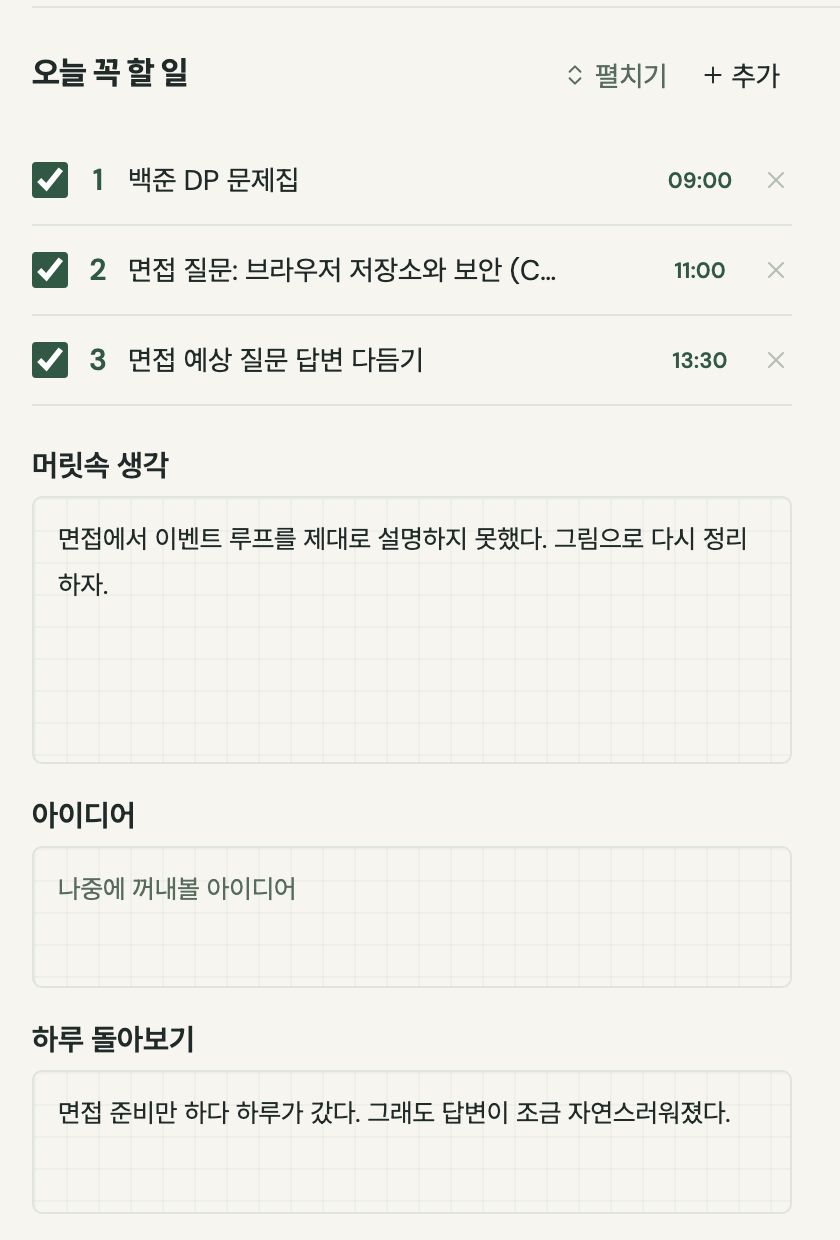
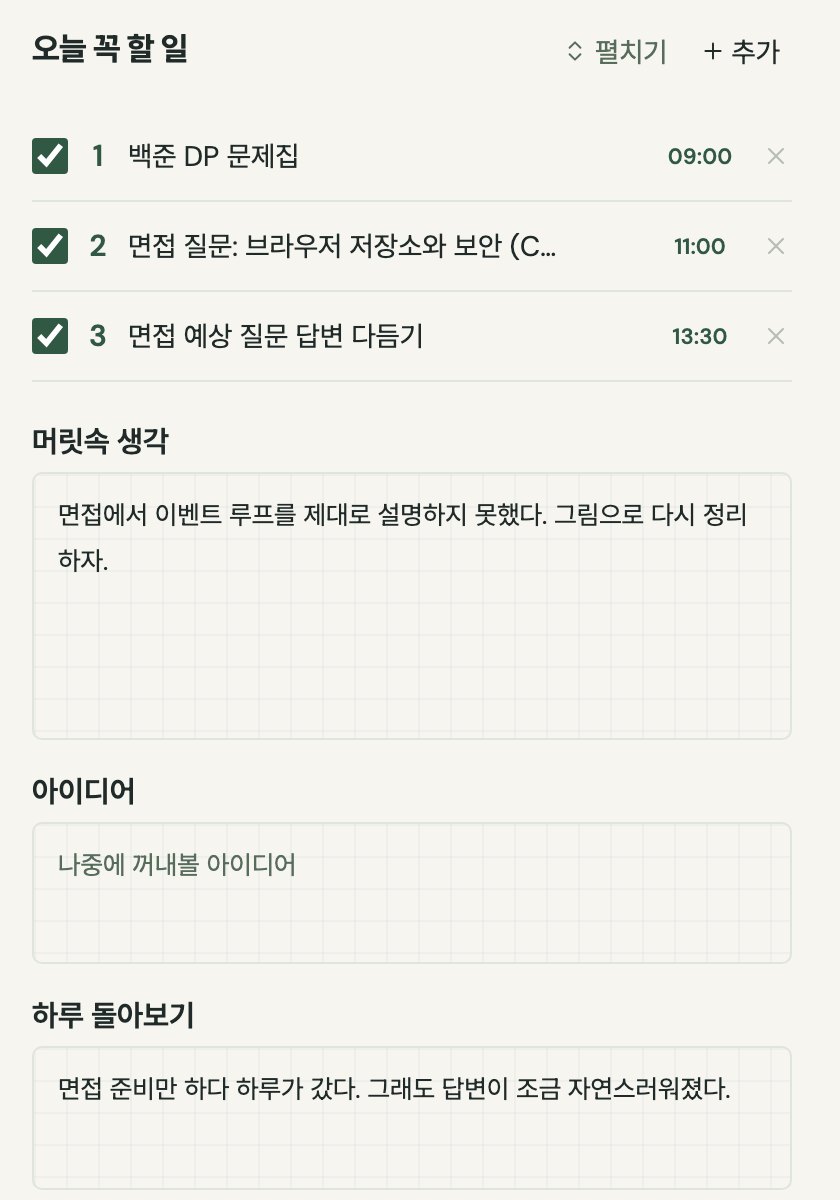
harukan: launch on a fresh database — terms version 2026-10-18, no revision history or older-account notes in legal/guide/contact; sign-in placeholders name@example.com, password rule only where a password is chosen; guide link moves from the header into Settings › Help; failed day saves retry by th

diff --git a/apps/harukan/src/legal.tsx b/apps/harukan/src/legal.tsx
@@ -10,15 +10,15 @@ export function Legal({kind,site}:{kind:string;site:Site}) {
     {kind==='privacy'?<>
       <p>{pair(`${operator}은(는) harukan 플래너를 운영하며 다음과 같이 개인정보를 처리합니다.`, `${operator} operates the harukan planner and processes personal information as described below.`)}</p>
       <h2>{t("처리하는 정보와 목적")}</h2><table className="policy-table"><thead><tr><th scope="col" id="policy-0-0">{t("정보")}</th><th scope="col" id="policy-0-1">{t("목적")}</th><th scope="col" id="policy-0-2">{t("보유 기간")}</th></tr></thead><tbody>
-      <tr><td headers="policy-0-0" data-label={t("정보")}>{pair("이메일 주소, 닉네임, 이메일 확인 시각, 비밀번호 해시, 가입 시각, 약관 확인 버전 (이메일 이전 가입 계정은 아이디·복구코드 해시)","Email address, nickname, email confirmation time, password hash, sign-up time, accepted terms version (accounts made before email sign-in: username and recovery-code hash)")}</td><td headers="policy-0-1" data-label={t("목적")}>{pair("회원 식별·로그인·화면 표시·비밀번호 재설정","Identifying members, sign-in, on-screen name, password reset")}</td><td headers="policy-0-2" data-label={t("보유 기간")}>{t("회원 탈퇴까지")}</td></tr>
+      <tr><td headers="policy-0-0" data-label={t("정보")}>{pair("이메일 주소, 닉네임, 이메일 확인 시각, 비밀번호 해시, 가입 시각, 약관 확인 버전","Email address, nickname, email confirmation time, password hash, sign-up time, accepted terms version")}</td><td headers="policy-0-1" data-label={t("목적")}>{pair("회원 식별·로그인·화면 표시·비밀번호 재설정","Identifying members, sign-in, on-screen name, password reset")}</td><td headers="policy-0-2" data-label={t("보유 기간")}>{t("회원 탈퇴까지")}</td></tr>
       <tr><td headers="policy-0-0" data-label={t("정보")}>{t("일정·실제 활동·할 일·메모·날짜·시간대·변경 버전")}</td><td headers="policy-0-1" data-label={t("목적")}>{t("개인 플래너 저장과 조회")}</td><td headers="policy-0-2" data-label={t("보유 기간")}>{t("삭제 또는 회원 탈퇴까지")}</td></tr>
       <tr><td headers="policy-0-0" data-label={t("정보")}>{pair("이메일 확인·비밀번호 재설정 링크의 해시와 보낼 주소","Hashes of email-check and password-reset links, with the address they go to")}</td><td headers="policy-0-1" data-label={t("목적")}>{pair("이메일 주소 확인·비밀번호 재설정","Confirming an address, resetting a password")}</td><td headers="policy-0-2" data-label={t("보유 기간")}>{pair("사용 즉시 삭제, 미사용 시 확인 링크 3일·재설정 링크 30분 뒤 만료, 이후 1시간 이내 정리","Deleted once used; otherwise check links expire after 3 days and reset links after 30 minutes, then cleared within an hour")}</td></tr>
       <tr><td headers="policy-0-0" data-label={t("정보")}>{t("로그인 세션 식별자와 요청 확인 값")}</td><td headers="policy-0-1" data-label={t("목적")}>{t("로그인 유지·요청 검증")}</td><td headers="policy-0-2" data-label={t("보유 기간")}>{t("로그아웃 또는 최대 7일")}</td></tr>
-      <tr><td headers="policy-0-0" data-label={t("정보")}>{pair("IP 주소·이메일·아이디에서 만든 시도 제한용 해시","Rate-limit hashes made from IP address, email and username")}</td><td headers="policy-0-1" data-label={t("목적")}>{pair("로그인·가입·재설정·복구 남용 방지","Preventing abuse of sign-in, sign-up, reset and recovery")}</td><td headers="policy-0-2" data-label={t("보유 기간")}>{t("최대 24시간 뒤 만료, 이후 1시간 이내 정리")}</td></tr>
+      <tr><td headers="policy-0-0" data-label={t("정보")}>{pair("IP 주소·이메일에서 만든 시도 제한용 해시","Rate-limit hashes made from IP address and email")}</td><td headers="policy-0-1" data-label={t("목적")}>{pair("로그인·가입·재설정 남용 방지","Preventing abuse of sign-in, sign-up and reset")}</td><td headers="policy-0-2" data-label={t("보유 기간")}>{t("최대 24시간 뒤 만료, 이후 1시간 이내 정리")}</td></tr>
       <tr><td headers="policy-0-0" data-label={t("정보")}>{t("탈퇴한 계정의 무작위 식별자와 탈퇴 시각")}</td><td headers="policy-0-1" data-label={t("목적")}>{t("장애 복구 시 탈퇴 계정의 재생성 방지")}</td><td headers="policy-0-2" data-label={t("보유 기간")}>{t("8일 뒤 만료, 이후 1시간 이내 정리")}</td></tr>
       <tr><td headers="policy-0-0" data-label={t("정보")}>{t("문의 이메일과 이용자가 보낸 내용")}</td><td headers="policy-0-1" data-label={t("목적")}>{t("문의 처리")}</td><td headers="policy-0-2" data-label={t("보유 기간")}>{t("처리 완료 후 1년. 삭제 요청 시 별도 법적 보존 사유를 확인해 처리")}</td></tr>
       </tbody></table>
-      <p>{pair("비밀번호와 복구코드는 원문으로 저장하지 않습니다. 회원가입에는 이메일과 닉네임만 받고 전화번호·주소·실명은 요구하지 않습니다. 닉네임은 본인 화면에만 보입니다. 입력한 메모 자체에 개인정보가 포함될 수 있습니다.","Passwords and recovery codes are never stored in plain text. Sign-up asks only for an email and a nickname — no phone number, address or real name. The nickname shows only on your own screens. Notes you write may themselves contain personal information.")}</p>
+      <p>{pair("비밀번호는 원문으로 저장하지 않습니다. 회원가입에는 이메일과 닉네임만 받고 전화번호·주소·실명은 요구하지 않습니다. 닉네임은 본인 화면에만 보입니다. 입력한 메모 자체에 개인정보가 포함될 수 있습니다.","Passwords are never stored in plain text. Sign-up asks only for an email and a nickname — no phone number, address or real name. The nickname shows only on your own screens. Notes you write may themselves contain personal information.")}</p>
       <h2>{t("파기와 백업")}</h2><p>{pair("회원 탈퇴 시 계정·세션·메일 링크·일정·할 일·메모·목표와 계획을 운영 데이터베이스에서 삭제합니다. 장애 복구용 백업은 같은 서버에 매일 만들고 7일이 지난 사본은 다음 백업 실행 때 제거합니다. 탈퇴 이전 백업에 남은 자료도 이 주기에 따라 제거하며, 백업 복구 시 별도 탈퇴 기록을 적용하고 모든 로그인 세션을 폐기합니다. 이용자가 내보낸 사본은 이용자가 관리합니다. 문의 메일은 처리 완료 후 1년이 지나면 운영자가 삭제합니다.","Account deletion removes your account, sessions, mail links, schedule, tasks, notes, goals and plans from the live database. Recovery backups are made daily on the same server; copies older than 7 days are removed on the next backup run. Data remaining in a backup made before account deletion is removed on that schedule. Restoring a backup applies a separate deletion journal and discards all login sessions. You manage any copies you export. The operator deletes inquiry emails 1 year after the inquiry is resolved.")}</p>
       <h2>{t("처리 위탁과 국외 이전")}</h2><p>{pair("온라인 저장과 안전한 접속에 필요한 처리 위탁·보관을 위해 아래 제공자를 이용합니다. 서버 저장 지역은", "We use the following providers for the processing and storage needed for online records and secure access. Server storage location:")}{' '}{l.hostingRegion?(l.hostingRegion.includes("ap-osaka-1")?pair(l.hostingRegion,"Osaka, Japan (ap-osaka-1)"):l.hostingRegion):pair("배포 전 확인 예정","To be confirmed before deployment")}{pair("입니다. 서버 저장, 접속 처리 및 문의 전달은 이용자가 가입·저장·접속·문의할 때 네트워크를 통해 이루어집니다.",". Server storage, connection processing, and inquiry forwarding take place over the network when you register, save, connect, or contact us.")}</p>
       <table className="policy-table"><thead><tr><th scope="col" id="policy-1-0">{t("제공자·처리 위치")}</th><th scope="col" id="policy-1-1">{t("항목·목적")}</th><th scope="col" id="policy-1-2">{t("기간·연락처")}</th></tr></thead><tbody>
@@ -35,16 +35,15 @@ export function Legal({kind,site}:{kind:string;site:Site}) {
       <p>{t("개인정보 담당:")}{' '}{l.privacyContact||operator}<br/>{t("문의:")}{' '}<a href={`mailto:${l.contact}`}>{l.contact}</a></p>
       <h2>{t("보호 조치와 아동 이용")}</h2><p>{t("비밀번호 해시, HTTPS 운영 연결, 계정별 조회·쓰기 범위, 세션 쿠키, 요청 검증과 로그인 시도 제한을 적용합니다. 만 14세 미만 가입은 현재 제공하지 않습니다.")}</p>
       <h2>{t("변경 안내")}</h2><p>{t("내용이 바뀌면 시행일과 변경 사항을 이 페이지에 게시합니다. 권리에 중요한 영향을 주는 변경은 서비스 안내를 통해 별도로 알립니다.")}</p>
-      <ul className="legal-history"><li>{pair("2026-10-18 개정: 서비스 이름을 harukan으로 바꾸고, 이메일·닉네임 가입과 이메일 확인·비밀번호 재설정 메일(Resend 발송 위탁)을 추가했습니다. 예전 아이디 계정은 그대로 쓸 수 있습니다.","Revised 2026-10-18: renamed the service harukan; added sign-up with an email and nickname, plus confirmation and password-reset mail (sent through Resend). Older username accounts keep working.")}</li><li>{pair("2026-10-12 최초 시행","First effective 2026-10-12")}</li></ul>
     </>:kind==='terms'?<>
       <p>{pair(`이 약관은 ${operator}이(가) 제공하는 harukan 플래너의 이용에 적용됩니다.`, `These terms apply to use of the harukan planner provided by ${operator}.`)}</p>
       <h2>{t("서비스와 회원가입")}</h2><p>{pair("서비스는 목표와 세부 계획, 하루 시간표·할 일·메모, 그리고 이를 모은 회고의 저장과 조회를 제공합니다. 만 14세 이상 이용자가 이메일·닉네임·비밀번호를 정하고 약관을 확인해 가입합니다. 타인의 이메일·계정·자료를 무단으로 쓰거나 서비스 운영을 방해하는 행위는 허용하지 않습니다.","The service stores and shows your goals and their steps, daily timetables, tasks and notes, and reviews built from them. Anyone aged 14 or older can sign up by choosing an email, a nickname and a password and accepting these terms. Using someone else’s email, account or records without permission, or disrupting the service, is not allowed.")}</p>
-      <h2>{t("계정과 복구")}</h2><p>{pair("계정은 이메일로 로그인하고, 비밀번호를 잊으면 그 이메일로 받은 링크로 재설정합니다. 사용하지 않는 주소로 가입하거나 주소를 잃으면 재설정할 수 없으니, 설정에서 이메일을 최신으로 유지해 주세요. 이메일 없이 가입한 초기 계정은 가입 때 받은 복구코드로 재설정하며, 설정에서 이메일을 등록할 수 있습니다. 운영자는 비밀번호 원문을 알 수 없습니다.","You sign in with your email, and a forgotten password is reset through a link sent to it. If you sign up with an address you don’t use or lose access to it, you can’t reset — keep your email current in Settings. Early accounts made without an email reset with the recovery code from sign-up and can add an email in Settings. The operator never knows your password.")}</p>
+      <h2>{t("계정과 복구")}</h2><p>{pair("계정은 이메일로 로그인하고, 비밀번호를 잊으면 그 이메일로 받은 링크로 재설정합니다. 사용하지 않는 주소로 가입하거나 주소를 잃으면 재설정할 수 없으니, 설정에서 이메일을 최신으로 유지해 주세요. 운영자는 비밀번호 원문을 알 수 없습니다.","You sign in with your email, and a forgotten password is reset through a link sent to it. If you sign up with an address you don’t use or lose access to it, you can’t reset — keep your email current in Settings. The operator never knows your password.")}</p>
       <h2>{t("이용자가 작성한 내용")}</h2><p>{t("작성한 일정·메모의 권리는 이용자에게 있습니다. 운영자는 서비스 제공·보관·백업·문제 해결에 필요한 범위에서 처리합니다. 기록을 광고나 모델 학습용 자료로 제공하는 기능은 없습니다. 이용자는 설정에서 자료를 내보낼 수 있습니다.")}</p>
       <h2>{t("운영과 변경")}</h2><p>{t("점검·장애·서비스 변경으로 일부 기능이 일시 중단될 수 있습니다. 주요 변경과 종료 계획은 서비스에서 안내하며 자료 내보내기 방법을 제공합니다. 유료 기능이나 결제를 시작하는 경우 조건과 요금을 먼저 안내합니다.")}</p>
-      <h2>{t("탈퇴와 이용 제한")}</h2><p>{pair("설정에서 가입한 이메일(예전 계정은 아이디)과 비밀번호를 입력해 탈퇴할 수 있습니다. 악의적 접근·자동화된 남용 등으로 이용을 제한할 경우 가능한 범위에서 사유와 문의 방법을 안내합니다. 법령이 정한 권리와 운영자의 책임을 일괄 배제하지 않습니다.","You can delete your account in Settings by entering your sign-up email (or username, for older accounts) and password. If use is restricted because of malicious access or automated abuse, we explain the reason and how to contact us where possible. Statutory rights and the operator’s legal responsibilities are not excluded.")}</p>
+      <h2>{t("탈퇴와 이용 제한")}</h2><p>{pair("설정에서 가입한 이메일과 비밀번호를 입력해 탈퇴할 수 있습니다. 악의적 접근·자동화된 남용 등으로 이용을 제한할 경우 가능한 범위에서 사유와 문의 방법을 안내합니다. 법령이 정한 권리와 운영자의 책임을 일괄 배제하지 않습니다.","You can delete your account in Settings by entering your sign-up email and password. If use is restricted because of malicious access or automated abuse, we explain the reason and how to contact us where possible. Statutory rights and the operator’s legal responsibilities are not excluded.")}</p>
       <h2>{t("문의와 분쟁")}</h2><p>{pair("문의는","Send inquiries to")}{' '}<a href={`mailto:${l.contact}`}>{l.contact}</a>{pair("로 받습니다. 분쟁은 관련 대한민국 법령에 따라 해결하며 이용자의 법정 권리를 제한하지 않습니다.",". Disputes are resolved under applicable laws of the Republic of Korea without limiting your statutory rights.")}</p>
-    </>:kind==='contact'?<><p>{t("계정·기록·서비스 이용에 관한 문의를 이메일로 보내 주세요.")}</p><a className="contact-address" href={`mailto:${l.contact}`}>{l.contact}</a><p>{pair("가입한 이메일(예전 계정은 아이디)과 문제가 생긴 화면을 알려 주시면 확인에 도움이 됩니다. 비밀번호·복구코드는 보내지 마세요.","Your sign-up email (or username, for older accounts) and the screen where the issue occurred will help us investigate. Never send your password or recovery code.")}</p><p>{t("운영자:")}{' '}{operator} · {t(l.representative||"개인 운영")}</p></>:<>
+    </>:kind==='contact'?<><p>{t("계정·기록·서비스 이용에 관한 문의를 이메일로 보내 주세요.")}</p><a className="contact-address" href={`mailto:${l.contact}`}>{l.contact}</a><p>{pair("가입한 이메일과 문제가 생긴 화면을 알려 주시면 확인에 도움이 됩니다. 비밀번호는 보내지 마세요.","Your sign-up email and the screen where the issue occurred will help us investigate. Never send your password.")}</p><p>{t("운영자:")}{' '}{operator} · {t(l.representative||"개인 운영")}</p></>:<>
       <p>{pair("harukan(하루칸)은 하루를 10분 칸 시간표로 계획하는 개인 플래너입니다. 올해 목표를 세부 계획으로 나누고, 오늘 꼭 할 일을 시간표에 놓고, 주·달·연 단위로 쓴 시간을 돌아봅니다. 기능 소개는 첫 화면, 쓰는 방법은 사용 안내에 있습니다.","harukan is a personal planner that lays out your day in 10-minute cells. Break this year’s goals into steps, place today’s priorities on the timetable, and look back at where the time went by week, month and year. The home page introduces the features; the guide shows how to use them.")}{' '}<a href="/">{pair("첫 화면","Home")}</a> · <a href="/guide">{pair("사용 안내","Guide")}</a></p>
       <h2>{t("운영 정보")}</h2><dl><dt>{t("운영 형태")}</dt><dd>{t("개인 운영")}</dd><dt>{t("운영자")}</dt><dd>{operator}</dd><dt>{t("문의")}</dt><dd><a href={`mailto:${l.contact}`}>{l.contact}</a></dd>{l.businessNumber&&<><dt>{t("사업자등록번호")}</dt><dd>{l.businessNumber}</dd></>}{l.address&&<><dt>{t("사업장 주소")}</dt><dd>{l.address}</dd></>}</dl>
       <h2>{t("기존 개인 작업 공간")}</h2><p>{t("기존 개인 Anotar는")}{' '}<a href="https://personal.leneu.store">personal.leneu.store</a>{t("에서 이용할 수 있습니다. 새 플래너의 계정과 자료는 기존 개인 서비스와 별도로 관리합니다.")}</p>

diff --git a/apps/harukan/src/main.tsx b/apps/harukan/src/main.tsx
@@ -1,7 +1,7 @@
 import {t,pair,LanguageSelect,useLanguage} from './i18n';
 import React,{useCallback,useEffect,useState} from 'react';
 import {createRoot} from 'react-dom/client';
-import {ArrowRight,CircleHelp,Menu,Settings} from 'lucide-react';
+import {ArrowRight,Menu,Settings} from 'lucide-react';
 import {request,Site,User} from './api';
 import {Legal} from './legal'
 import {Guide} from './Guide';
@@ -13,7 +13,7 @@ import {Journal} from './journal/Journal';
 import {journalPath,journalSection,journalView} from './journal/navigation';
 try{document.documentElement.dataset.font=localStorage.getItem('anotar-planner:font')||'small';document.documentElement.dataset.theme=localStorage.getItem('anotar-planner:theme')||'system';}catch{}
 
-const initialSite:Site={legal:{operator:'문성혁',representative:'개인 운영',businessNumber:'',address:'',contact:'support@leneu.store',privacyContact:'문성혁',publishedAt:'',hostingRegion:''},legalReady:false,registration:false,termsVersion:'2026-10-18-v1'};
+const initialSite:Site={legal:{operator:'문성혁',representative:'개인 운영',businessNumber:'',address:'',contact:'support@leneu.store',privacyContact:'문성혁',publishedAt:'',hostingRegion:''},legalReady:false,registration:false,termsVersion:'2026-10-18'};
 function Brand({href="/"}:{href?:string}){return <a className="brand" href={href} aria-label={t("harukan 서비스 소개")}><img src="/brand/harukan.svg" alt=""/><span>harukan</span></a>;}
 function Footer({site}:{site:Site}) {return <footer className="site-footer"><Brand/><nav aria-label={t("서비스 정보")}><a href="/guide">{pair("사용 안내","Guide")}</a><a href="/about">{t("서비스·운영자")}</a><a href="/privacy">{t("개인정보처리방침")}</a><a href="/terms">{t("이용약관")}</a><a href="/contact">{t("문의")}</a></nav><LanguageSelect/><p>{t("개인 운영 ·")}{' '}{site.legal.operator||t("운영자 정보 확인 중")}<br/><a href={`mailto:${site.legal.contact}`}>{site.legal.contact}</a></p></footer>;}
 
@@ -41,14 +41,14 @@ function Auth({kind,site}:{kind:string;site:Site}) {
     {signup&&!site.registration&&<p className="notice">{t("가입 준비 중이에요.")}{' '}<a href="/demo">{t("먼저 시간표를 체험해 보세요.")}</a></p>}
     {reset&&!linkToken&&<p className="error" role="alert">{t("링크가 올바르지 않아요. 비밀번호 재설정을 다시 요청해 주세요.")}</p>}
     <form onSubmit={submit}>
-    {(signup||forgot)&&<><label htmlFor="email">{t("이메일")}</label><input id="email" type="email" value={email} onChange={e=>setEmail(e.target.value)} autoComplete="email" required maxLength={254}/></>}
+    {(signup||forgot)&&<><label htmlFor="email">{t("이메일")}</label><input id="email" type="email" value={email} onChange={e=>setEmail(e.target.value)} autoComplete="email" required maxLength={254} placeholder="name@example.com"/></>}
     {signup&&<><label htmlFor="nickname">{t("닉네임")}</label><input id="nickname" value={nickname} onChange={e=>setNickname(e.target.value)} autoComplete="nickname" required minLength={2} maxLength={20} placeholder={t("2–20자, 화면에 보이는 이름")}/></>}
-    {kind==='login'&&<><label htmlFor="login">{t("이메일")}</label><input id="login" value={login} onChange={e=>setLogin(e.target.value)} autoComplete="username" required maxLength={254} placeholder={t("예전 계정은 아이디")}/></>}
+    {kind==='login'&&<><label htmlFor="login">{t("이메일")}</label><input id="login" value={login} onChange={e=>setLogin(e.target.value)} autoComplete="username" required maxLength={254} placeholder="name@example.com"/></>}
     {recover&&<><label htmlFor="username">{t("아이디")}</label><input id="username" value={username} onChange={e=>setUsername(e.target.value)} autoComplete="username" required minLength={3} maxLength={32}/><label htmlFor="recovery">{t("복구코드")}</label><input id="recovery" value={recovery} onChange={e=>setRecovery(e.target.value)} autoComplete="off" required/></>}
-    {!forgot&&<><label htmlFor="password">{reset||recover?t("새 비밀번호"):t("비밀번호")}</label><input id="password" type="password" value={password} onChange={e=>setPassword(e.target.value)} autoComplete={kind==='login'?'current-password':'new-password'} required minLength={12} maxLength={128}/><small>{t("12–128자. 다른 서비스와 다른 비밀번호를 사용해 주세요.")}</small></>}
+    {!forgot&&<><label htmlFor="password">{reset||recover?t("새 비밀번호"):t("비밀번호")}</label><input id="password" type="password" value={password} onChange={e=>setPassword(e.target.value)} autoComplete={kind==='login'?'current-password':'new-password'} required minLength={12} maxLength={128}/>{kind!=='login'&&<small>{t("12–128자. 다른 서비스와 다른 비밀번호를 사용해 주세요.")}</small>}</>}
     {signup&&<div className="auth-consents"><label className="checkbox"><input type="checkbox" checked={agree} onChange={e=>setAgree(e.target.checked)} required/><span>{pair("","I agree to the ")}<a href="/terms" target="_blank" rel="noreferrer">{t("이용약관")}</a>{pair("에 동의하고"," and have read the ")}{' '}<a href="/privacy" target="_blank" rel="noreferrer">{t("개인정보처리방침")}</a>{pair("을 확인했어요.",".")}</span></label><label className="checkbox"><input type="checkbox" checked={age} onChange={e=>setAge(e.target.checked)} required/><span>{t("만 14세 이상이에요.")}</span></label></div>}
     {error&&<p className="error" role="alert">{t(error)}</p>}<button className="primary" disabled={busy||(signup&&!site.registration)||(reset&&!linkToken)}>{busy?t("확인 중…"):signup?t("가입하고 시작하기"):forgot?t("재설정 링크 보내기"):reset||recover?t("비밀번호 재설정"):t("로그인")}<ArrowRight size={16}/></button></form>
-    <div className="auth-links">{kind==='login'&&<><a href="/signup">{t("처음이라면 가입하기")}</a><a href="/forgot">{t("비밀번호를 잊었어요")}</a></>}{signup&&<a href="/login">{t("이미 계정이 있어요")}</a>}{forgot&&<><a href="/login">{t("로그인으로")}</a><a href="/recover">{t("이메일 없이 가입했다면: 복구코드로 재설정")}</a></>}{(recover||reset)&&<a href="/login">{t("로그인으로")}</a>}</div>
+    <div className="auth-links">{kind==='login'&&<><a href="/signup">{t("처음이라면 가입하기")}</a><a href="/forgot">{t("비밀번호를 잊었어요")}</a></>}{signup&&<a href="/login">{t("이미 계정이 있어요")}</a>}{forgot&&<><a href="/login">{t("로그인으로")}</a></>}{(recover||reset)&&<a href="/login">{t("로그인으로")}</a>}</div>
   </main>;
 }
 function App() {
@@ -70,7 +70,7 @@ function App() {
   const activeSection=path==='/app/settings'?null:journalSection(journalLocation.view);
   function sectionHref(section:string){const view=section==='plans'?(activeSection==='plans'?journalLocation.view:'year'):section==='review'?'review':activeSection==='schedule'?journalLocation.view:'day';const query=new URLSearchParams();if(journalLocation.date)query.set('date',journalLocation.date);query.set('view',view);return journalPath(view)+(query.size?'?'+query:'');}
   async function logout(){if(!window.dispatchEvent(new Event('anotar-before-leave',{cancelable:true})))return;try{await request('/api/auth/logout','POST',{},csrf);window.location.assign('/login');}catch(e){setInitError((e as Error).message);}}
-  return <><header className={`site-header ${privatePage?'app-header':'public-header'}`}><Brand href={privatePage&&user?'/app':'/'}/>{privatePage&&user?<><nav className="app-nav" aria-label={t("플래너 메뉴")}>{[["schedule","일정","Schedule"],["plans","계획","Plans"],["review","회고","Review"]].map(([section,ko,en])=><a key={section} className={activeSection===section?"active":""} aria-current={activeSection===section?"page":undefined} href={sectionHref(section)}>{pair(ko,en)}</a>)}</nav><span id="save-status" className="header-save"/><div className="account-actions"><a href="/guide" aria-label={pair("사용 안내","Guide")} title={pair("사용 안내","Guide")}><CircleHelp size={17}/></a><a className="account-link" href="/app/settings" aria-label={t("계정 설정")} title={pair("설정","Settings")}><span>{user.nickname}</span><Settings size={17} aria-hidden="true"/></a></div></>:<><LanguageSelect/><button className="mobile-menu" onClick={()=>setMobileMenu(!mobileMenu)} aria-label={t("메뉴 열기")} aria-expanded={mobileMenu}><Menu size={22}/></button><nav className={mobileMenu?'public-nav open':'public-nav'} aria-label={t("소개 메뉴")}><a href="/#features">{pair("기능","Features")}</a><a href="/demo">{t("시간표 체험")}</a><a href="/guide">{pair("사용 안내","Guide")}</a><a href="/login">{t("로그인")}</a><a className="primary compact" href="/signup">{t("시작하기")}</a></nav></>}</header>
+  return <><header className={`site-header ${privatePage?'app-header':'public-header'}`}><Brand href={privatePage&&user?'/app':'/'}/>{privatePage&&user?<><nav className="app-nav" aria-label={t("플래너 메뉴")}>{[["schedule","일정","Schedule"],["plans","계획","Plans"],["review","회고","Review"]].map(([section,ko,en])=><a key={section} className={activeSection===section?"active":""} aria-current={activeSection===section?"page":undefined} href={sectionHref(section)}>{pair(ko,en)}</a>)}</nav><span id="save-status" className="header-save"/><div className="account-actions"><a className="account-link" href="/app/settings" aria-label={t("계정 설정")} title={pair("설정","Settings")}><span>{user.nickname}</span><Settings size={17} aria-hidden="true"/></a></div></>:<><LanguageSelect/><button className="mobile-menu" onClick={()=>setMobileMenu(!mobileMenu)} aria-label={t("메뉴 열기")} aria-expanded={mobileMenu}><Menu size={22}/></button><nav className={mobileMenu?'public-nav open':'public-nav'} aria-label={t("소개 메뉴")}><a href="/#features">{pair("기능","Features")}</a><a href="/demo">{t("시간표 체험")}</a><a href="/guide">{pair("사용 안내","Guide")}</a><a href="/login">{t("로그인")}</a><a className="primary compact" href="/signup">{t("시작하기")}</a></nav></>}</header>
     {initError&&privatePage?<main className="auth-page"><p role="alert">{t(initError)}</p><button className="primary" onClick={()=>window.location.reload()}>{t("다시 연결")}</button><a href="/demo">{t("시간표 체험")}</a></main>:privatePage?(!session||!user?<main className="auth-page" aria-live="polite">{t("로그인 확인 중…")}</main>:<>{path==='/app/settings'?<SettingsPage user={user} csrf={csrf} onLogout={logout}/>:<Journal user={user} csrf={csrf} onViewChange={onJournalView}/>}</>):demo?<><div className="demo-label">{t("체험용 예시 · 이 화면의 입력은 계정에 저장되지 않아요.")}<a href="/signup">{t("내 시간표 만들기")}<ArrowRight size={15}/></a></div><Journal demo/></>:['/login','/signup','/recover','/forgot','/reset','/verify'].includes(path)?<Auth kind={path.slice(1)} site={site}/>:['/privacy','/terms','/about','/contact'].includes(path)?<Legal kind={path.slice(1)} site={site}/>:path==='/guide'?<Guide/>:path==='/'?<Landing/>:<main className="auth-page"><h1>{t("페이지를 찾을 수 없어요.")}</h1><a href="/">{t("서비스 소개로 이동")}</a></main>}
     {!privatePage&&<Footer site={site}/>}</>;
 }

diff --git a/apps/harukan/src/planner.tsx b/apps/harukan/src/planner.tsx
@@ -1,6 +1,6 @@
 import {t,pair,getLanguage,LanguageSelect} from './i18n';
 import React,{useEffect,useRef,useState} from 'react';
-import {X,ArrowRight,Check,ChevronLeft,ChevronRight,Plus,Trash2,Download,Settings,Save,LogOut} from 'lucide-react';
+import {X,ArrowRight,Check,ChevronLeft,ChevronRight,Plus,Trash2,Download,Settings,Save,LogOut,CircleHelp} from 'lucide-react';
 import {ApiError,Day,Entry,Plan,PlanningItem,User,clock,download,duration,emptyDay,recorded,request,today} from './api';
 
 const copy=<T,>(value:T):T=>structuredClone(value);
@@ -32,7 +32,7 @@ export function useDay(date:string,user:User|undefined,csrf:string,demo:boolean)
     if(demo)loaded(demoDay(),0);else request<{document:Day;version:number}>(`/api/days/${date}`).then(r=>loaded(r.document,r.version)).catch(e=>{if(epoch===generation.current){setError(e.message);setLoading(false);setState('load-error');}});
     return()=>{clearTimeout(timer.current);generation.current++;};
   },[date,user?.id,demo]);
-  function change(value:Day){if(loading||state==='load-error'||pendingDraft)return;latest.current=value;setDocument(value);if(demo){setState('demo');return;}dirty.current=true;stash(value);setState('pending');clearTimeout(timer.current);if(!blocked.current)timer.current=setTimeout(()=>saveRef.current(),900);}
+  function change(value:Day){if(loading||state==='load-error'||pendingDraft)return;latest.current=value;setDocument(value);if(demo){setState('demo');return;}dirty.current=true;stash(value);if(state==='error')blocked.current=false;if(!blocked.current)setState('pending');clearTimeout(timer.current);if(!blocked.current)timer.current=setTimeout(()=>saveRef.current(),900);}
   async function save(){
     if(demo||busy.current||!dirty.current||loading)return;
     busy.current=true;setState('saving');setError('');const snapshot=copy(latest.current),v=version.current,epoch=generation.current;
@@ -43,6 +43,13 @@ export function useDay(date:string,user:User|undefined,csrf:string,demo:boolean)
     finally{busy.current=false;}
   }
   saveRef.current=save;
+  // A failed save (offline, server restart) tries again by itself: when the browser is back online and every 20 s. A conflict (409) waits for the person.
+  useEffect(()=>{
+    if(state!=='error')return;
+    const retry=()=>{if(navigator.onLine){blocked.current=false;void saveRef.current();}};
+    const every=setInterval(retry,20000);window.addEventListener('online',retry);
+    return()=>{clearInterval(every);window.removeEventListener('online',retry);};
+  },[state]);
   useEffect(()=>{
     function unload(e:BeforeUnloadEvent){if(dirty.current||busy.current){e.preventDefault();e.returnValue='';}}
     function leave(e:Event){if(busy.current||(dirty.current&&!window.confirm(t("아직 서버에 저장되지 않은 내용이 있어요. 기기 초안을 남기고 이동할까요?"))))e.preventDefault();}
@@ -113,6 +120,7 @@ export function SettingsPage({user,csrf,onLogout}:{user:User;csrf:string;onLogou
       <div className="account-row"><span className="account-key">{t("시간대")}</span><p className="account-value">{user.timezone}</p></div>
     </div></section>
     <section><h2>{pair("언어","Language")}</h2><LanguageSelect/><p className="helper">{pair("소개와 플래너에 함께 적용돼요. 작성한 기록은 그대로 유지돼요.","Applies to the website and planner. Your written records stay unchanged.")}</p></section><section><h2>{pair('화면 테마','Theme')}</h2><div className="form-actions">{[['system',pair('시스템 따라가기','Match system')],['light',pair('라이트','Light')],['dark',pair('다크','Dark')]].map(([v,label])=><button key={v} className={theme===v?'primary':'secondary'} aria-pressed={theme===v} onClick={()=>{setTheme(v);try{localStorage.setItem('anotar-planner:theme',v);}catch{}document.documentElement.dataset.theme=v;}}>{label}</button>)}</div><p className="helper">{pair('이 기기에만 적용돼요.','Applies to this device only.')}</p></section><section><h2>{t("화면 글자 크기")}</h2><div className="form-actions">{[['small',t("작게")],['normal',t("보통")],['large',t("크게")]].map(([v,label])=><button key={v} className={font===v?'primary':'secondary'} aria-pressed={font===v} onClick={()=>{setFont(v);localStorage.setItem('anotar-planner:font',v);document.documentElement.dataset.font=v;}}>{t(label)}</button>)}<button className="text-button" onClick={()=>{setFont('small');localStorage.removeItem('anotar-planner:font');document.documentElement.dataset.font='small';}}>{t("기본값으로 설정")}</button></div><p className="helper">{t("이 브라우저에 적용돼요. 기본값은 작게예요.")}</p></section>
+    <section><h2>{pair("도움말","Help")}</h2><p>{pair("화면별 쓰는 법은 사용 안내에, 그 밖의 궁금한 점은 문의로 보내 주세요.","How each screen works is in the guide; anything else, send us a message.")}</p><div className="settings-links"><a className="secondary" href="/guide"><CircleHelp size={16}/>{pair("사용 안내","Guide")}</a><a className="text-button" href="/contact">{pair("문의하기","Contact")}</a></div></section>
     <section><h2>{t("내 기록 내보내기")}</h2><p>{t("일정·메모·계획을 JSON 파일로 보관해요.")}</p><button className="secondary" disabled={busy} onClick={()=>act(async()=>download(`harukan-${user.username}.json`,await request('/api/export')))}><Download size={16}/>{t("자료 내보내기")}</button></section>
     <section><h2>{t("비밀번호 변경")}</h2><form className="settings-form" onSubmit={e=>{e.preventDefault();act(async()=>{await request('/api/account/password','POST',{currentPassword:password,password:nextPassword},csrf);location.assign('/app/settings');});}}><label>{t("현재 비밀번호")}<input type="password" autoComplete="current-password" required minLength={12} maxLength={128} value={password} onChange={e=>setPassword(e.target.value)}/></label><label>{t("새 비밀번호")}<input type="password" autoComplete="new-password" required minLength={12} maxLength={128} value={nextPassword} onChange={e=>setNextPassword(e.target.value)}/></label><p className="helper">{t("12–128자. 다른 기기의 로그인은 종료돼요.")}</p><button className="secondary" disabled={busy}><Settings size={16}/>{t("비밀번호 변경")}</button></form></section>
     <section><details><summary>{t("계정과 기록 삭제")}</summary><p>{t("탈퇴하면 서버의 계정·일정·메모·할 일을 삭제해요. 먼저 필요한 자료를 내보내 주세요. 되돌릴 수 없어요.")}</p><form className="settings-form" onSubmit={e=>{e.preventDefault();if(!confirm(t("계정과 기록을 영구 삭제할까요?")))return;act(async()=>{await request('/api/account','DELETE',{confirmation,password},csrf);for(const key of Object.keys(localStorage))if(key.startsWith(`anotar-planner:draft:${user.id}:`))localStorage.removeItem(key);location.assign('/');});}}><label>{user.email?t("이메일을 다시 입력"):t("아이디를 다시 입력")}<input autoComplete="off" required value={confirmation} onChange={e=>setConfirmation(e.target.value)}/></label><label>{t("비밀번호")}<input type="password" autoComplete="current-password" required minLength={12} maxLength={128} value={password} onChange={e=>setPassword(e.target.value)}/></label><button className="danger secondary" disabled={busy||confirmation!==user.username}><Trash2 size={16}/>{t("탈퇴하고 기록 삭제")}</button></form></details></section>

diff --git a/apps/harukan/src/Guide.tsx b/apps/harukan/src/Guide.tsx
@@ -12,7 +12,7 @@ const steps:{id:string;where:[string,string];title:[string,string];lede:[string,
   tip:['목표 없이 바로 2단계부터 써도 돼요. 나중에 만들어도 지난 일정을 목표에 연결할 수 있어요.','You can skip this and start at step 2; past activities can be linked to a goal later.']},
  {id:'today',where:['일정 › 일간 · 왼쪽','Schedule › Day · left side'],title:['오늘 꼭 할 일을 골라요','Pick today’s priorities'],
   lede:['머릿속에 있는 걸 먼저 다 꺼내 놓고, 그중 오늘 꼭 끝낼 것만 위로 올려요.','Empty your head first, then lift out only what must get done today.'],
-  shot:{src:'/guide/step-today.png',w:840,h:1240,ko:'일간 화면 왼쪽: 오늘 꼭 할 일 세 줄과 시작 시각, 아래에 머릿속 생각·아이디어·하루 돌아보기 칸',en:'Left side of the day view: three priorities with start times, then the thoughts, ideas and daily review boxes'},
+  shot:{src:'/guide/step-today.png',w:840,h:1200,ko:'일간 화면 왼쪽: 오늘 꼭 할 일 세 줄과 시작 시각, 아래에 머릿속 생각·아이디어·하루 돌아보기 칸',en:'Left side of the day view: three priorities with start times, then the thoughts, ideas and daily review boxes'},
   todo:[['‘머릿속 생각’에 해야 할 일, 걱정, 떠오른 것을 정리하지 말고 적어요.','Write everything on your mind into On my mind, without sorting it.'],['그중 오늘 꼭 끝낼 3가지를 ‘오늘 꼭 할 일’ 1–3번에 적어요. 더 있으면 4번부터 작게 이어져요.','Put the three that must get done today in rows 1–3 of Today’s priorities; more go from row 4, smaller.'],['어제 못 한 일이 있으면 제목 옆 ‘어제 N개’를 눌러 그대로 가져와요.','Left something yesterday? The “N from yesterday” button brings it over.']]},
  {id:'timetable',where:['일정 › 일간 · 오른쪽','Schedule › Day · right side'],title:['할 일을 시간표에 놓아요','Give each task a time'],
   lede:['한 줄이 한 시간, 한 칸이 10분이에요. 꼭 할 일에 시간을 주면 하루가 실제로 들어가는지 보여요.','Each row is an hour and each cell 10 minutes. Giving priorities a time shows whether the day really fits.'],
@@ -36,7 +36,7 @@ export function Guide(){
   <a href="/">{pair('서비스 소개로','Back to home')}</a>
   <h1>{pair('사용 안내','How to use harukan')}</h1>
   <p className="guide-lede">{pair('처음 쓰는 날, 아래 다섯 단계를 차례로 따라 해 보세요. harukan이 무엇인지는 첫 화면에서, 여기서는 실제로 어떻게 쓰는지를 화면과 함께 보여 줘요.','Follow these five steps on your first day. The home page says what harukan is for; this page shows, screen by screen, how to use it.')}</p>
-  <figure className="guide-hero">{picture({src:'/guide/day.png',w:2512,h:1536,ko:'일간 화면 전체: 위에 날짜와 집중 목표, 왼쪽에 오늘 꼭 할 일과 메모, 오른쪽에 하루 24시간 시간표',en:'The whole day view: date and focus goals on top, priorities and notes on the left, the 24-hour timetable on the right'})}<figcaption>{pair('매일 쓰는 일간 화면 (예시 데이터)','The day view you use every day (sample data)')}</figcaption></figure>
+  <figure className="guide-hero">{picture({src:'/guide/day.png',w:2512,h:1520,ko:'일간 화면 전체: 위에 날짜와 집중 목표, 왼쪽에 오늘 꼭 할 일과 메모, 오른쪽에 하루 24시간 시간표',en:'The whole day view: date and focus goals on top, priorities and notes on the left, the 24-hour timetable on the right'})}<figcaption>{pair('매일 쓰는 일간 화면 (예시 데이터)','The day view you use every day (sample data)')}</figcaption></figure>
   <nav className="guide-steps-nav" aria-label={pair('단계','Steps')}><ol>{steps.map((step,i)=><li key={step.id}><a href={'#'+step.id}><span>{i+1}</span>{pair(...step.title)}</a></li>)}</ol></nav>
 
   {steps.map((step,i)=><section className="guide-step" id={step.id} key={step.id} aria-labelledby={step.id+'-title'}>
@@ -86,7 +86,6 @@ export function Guide(){
    <li>{pair('이메일과 비밀번호로 로그인해요. 화면에는 가입할 때 정한 닉네임이 보여요. 닉네임과 이메일은 설정 › 계정에서 바꿔요.','Sign in with your email and password. Screens show the nickname you chose at sign-up; change it or your email under Settings › Account.')}</li>
    <li>{pair('가입하면 확인 메일이 가요. 링크를 열면 ‘확인됨’이 되고, 안 보이면 스팸함을 확인하거나 설정에서 다시 보내요. 새 이메일로 바꿀 때도 새 주소로 간 링크를 열어야 바뀌어요.','After sign-up we send a confirmation email. Open its link to see Confirmed; if it isn’t there, check spam or resend it from Settings. A new address takes effect only after you open the link sent to it.')}</li>
    <li>{pair('비밀번호를 잊으면 로그인 화면의 ‘비밀번호를 잊었어요’에서 재설정 링크를 받아요. 링크는 30분 동안 한 번만 쓸 수 있고, 바꾸면 다른 기기의 로그인은 끝나요.','Forgot your password? Choose “Forgot password” on the sign-in screen for a reset link. It works once, for 30 minutes, and other devices are signed out after the change.')}</li>
-   <li>{pair('이메일 없이 가입한 예전 계정은 아이디로 로그인하고, 비밀번호는 가입 때 받은 복구코드로 재설정해요. 설정에서 이메일을 등록하면 이메일로도 로그인하고 재설정할 수 있어요.','Older accounts made without an email sign in with their username and reset the password with the recovery code from sign-up. Add an email in Settings to sign in and reset with it too.')}</li>
   </ul>
   </details>
   <details className="guide-more"><summary>{pair('단축키','Keyboard shortcuts')}</summary>

diff --git a/apps/harukan/src/style.css b/apps/harukan/src/style.css
@@ -100,3 +100,4 @@ body:has(.journal-page:not(.journal-preview)) .public-header{padding-inline:max(
 .guide-more>:not(summary){margin-bottom:18px}
 .guide-close{display:flex;gap:10px;flex-wrap:wrap;margin-top:40px}
 @media(max-width:760px){.guide-steps-nav ol{grid-template-columns:minmax(0,1fr)}.guide-steps-nav a{padding:8px 12px}.guide-step{margin-top:44px}.guide-step .guide-strip{overflow-x:auto}.guide-step .guide-strip img{width:auto;max-width:none;height:42px}}
+.settings-links{display:flex;align-items:center;gap:14px;flex-wrap:wrap;margin-top:12px}.settings-links a{display:inline-flex;align-items:center;gap:6px}

diff --git a/apps/harukan/docs/PUBLIC_INFORMATION.md b/apps/harukan/docs/PUBLIC_INFORMATION.md
@@ -10,10 +10,10 @@
 | 운영 형태 | 개인 운영 |
 | 운영자·개인정보 담당 | 문성혁 |
 | 공개 문의처 | support@leneu.store |
-| 계정 | 이메일 + 닉네임 + 비밀번호 (2026-10-18부터). 그 전 가입 계정은 아이디 + 복구코드, 설정에서 이메일 등록 가능 |
+| 계정 | 이메일 + 닉네임 + 비밀번호 |
 | 적용 주소 | 새 플래너 leneu.store, 기존 개인 Anotar personal.leneu.store |
 | 서버 저장 위치 | Oracle 일본 오사카 (ap-osaka-1) |
-| 정책 시행일 | 2026-10-12 최초. 개정판(약관 버전 `2026-10-18-v1`)은 서버 반영일을 `LEGAL_PUBLISHED_AT`으로 |
+| 정책 시행일 | 2026-10-12 최초. 개정판(약관 버전 `2026-10-18`)은 서버 반영일을 `LEGAL_PUBLISHED_AT`으로 |
 | 언어 | 한국어/영어, 브라우저에 선택 저장 |
 | 결제 | 이번 구현 없음 |
 | 광고·추적 SDK·외부 AI·기록 공개 | 이번 구현 없음 |
@@ -31,12 +31,12 @@
 6. **메일**: 사용자가 Gmail 목적지를 인증했고 support 전달 규칙이 Active인 것을 읽어 확인했다. 실제 전달 수신은 아직 시험하지 않았다.
 7. **정책/가입**: `LEGAL_PUBLISHED_AT=2026-10-12`, `LEGAL_REVIEWED=true`, `REGISTRATION_ENABLED=true`를 적용했다. 이 플래그는 실제 사실을 반영한 게시 상태이며 법적 적합성 보증이 아니다.
 
-## 2026-10-18 개정 (서버 반영 때 적용)
+## 2026-10-18 정리 (서버 반영 때 적용)
 
-- 처리방침: 수집 항목에 이메일·닉네임·이메일 확인 시각, 메일 링크 해시(확인 3일·재설정 30분), Resend 위탁 행, 파기 대상에 메일 링크·목표와 계획, 변경 이력 목록.
-- 약관: 가입 수단을 이메일·닉네임·비밀번호로, 서비스 범위에 목표·회고, 탈퇴 확인을 이메일(옛 계정은 아이디)+비밀번호로. 약관 버전 `2026-10-18-v1`은 새 가입에만 적용하고 기존 회원에게 재동의를 받지 않는다(이메일은 본인이 등록할 때만 수집).
-- 운영자·서비스 페이지 소개 문장을 harukan 기준으로. 문의 페이지는 아이디 대신 가입 이메일을 묻는다.
-- 반영 순서: 서버 코드 → `/srv/anotar-planner/.env`에 `RESEND_API_KEY`·`MAIL_FROM`·`LEGAL_PUBLISHED_AT=<반영일>` → `/api/site`에서 `termsVersion`·시행일 확인.
+- harukan 출시는 **운영 데이터를 비우고 새로 시작**한다. 그래서 개정 이력·재동의·예전 아이디 계정 안내를 문서에 두지 않는다. 약관 버전은 `2026-10-18`(접미사 없음), 시행일은 서버 반영일을 `LEGAL_PUBLISHED_AT`으로.
+- 처리방침: 이메일·닉네임·이메일 확인 시각, 메일 링크 해시(확인 3일·재설정 30분), Resend 위탁, 파기 대상에 메일 링크·메모·목표와 계획.
+- 약관: 이메일·닉네임·비밀번호 가입, 서비스 범위에 목표·회고, 탈퇴는 이메일+비밀번호 확인.
+- 코드에는 아이디 로그인·복구코드 경로(`/recover`, 설정의 아이디 줄)가 남아 있다. 새 DB에선 쓰이지 않으며, 지울지는 따로 정한다.
 
 ## 운영자가 이어서 확인할 항목
 
